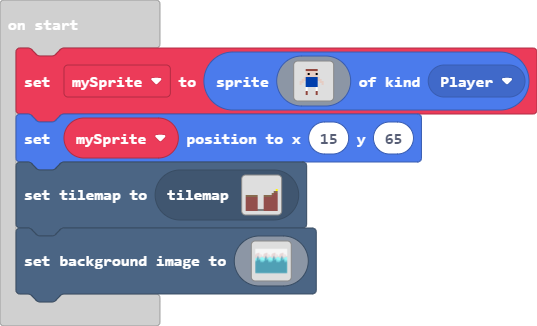
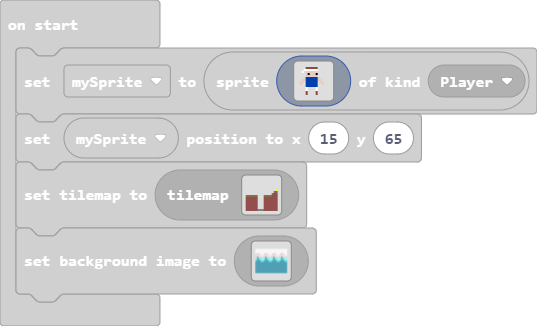
Update main.blocks, main.ts

diff --git a/main.ts b/main.ts
@@ -1,8 +1,8 @@
 let mySprite = sprites.create(img`
     . . . . . . . . . . . . . . . . 
-    . . . . . . . . . . . . . . . . 
     . . . . e e e e e e . . . . . . 
-    . . . . d d d d d d . . . . . . 
+    . . . 1 1 1 1 1 1 1 . . . . . . 
+    . . 1 . d d d d d d . . . . . . 
     . . . . d f d d d f . . . . . . 
     . . . . d d d d d d . . . . . . 
     . . . d 8 8 8 8 8 8 d . . . . . 
